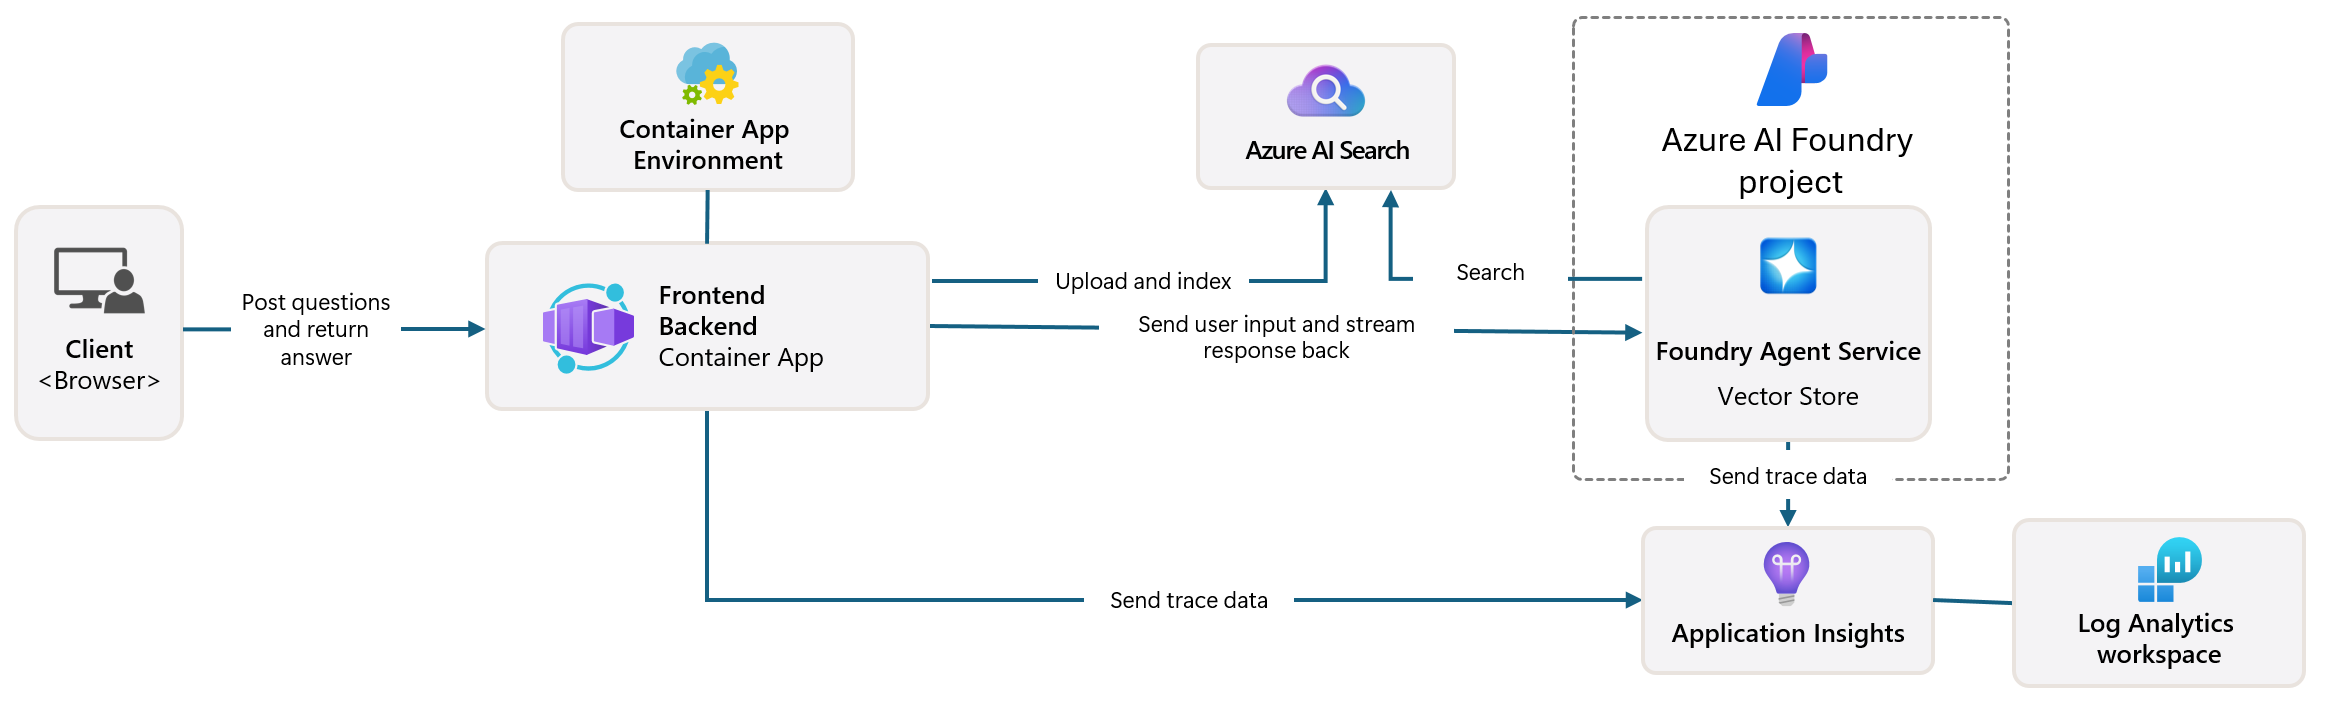
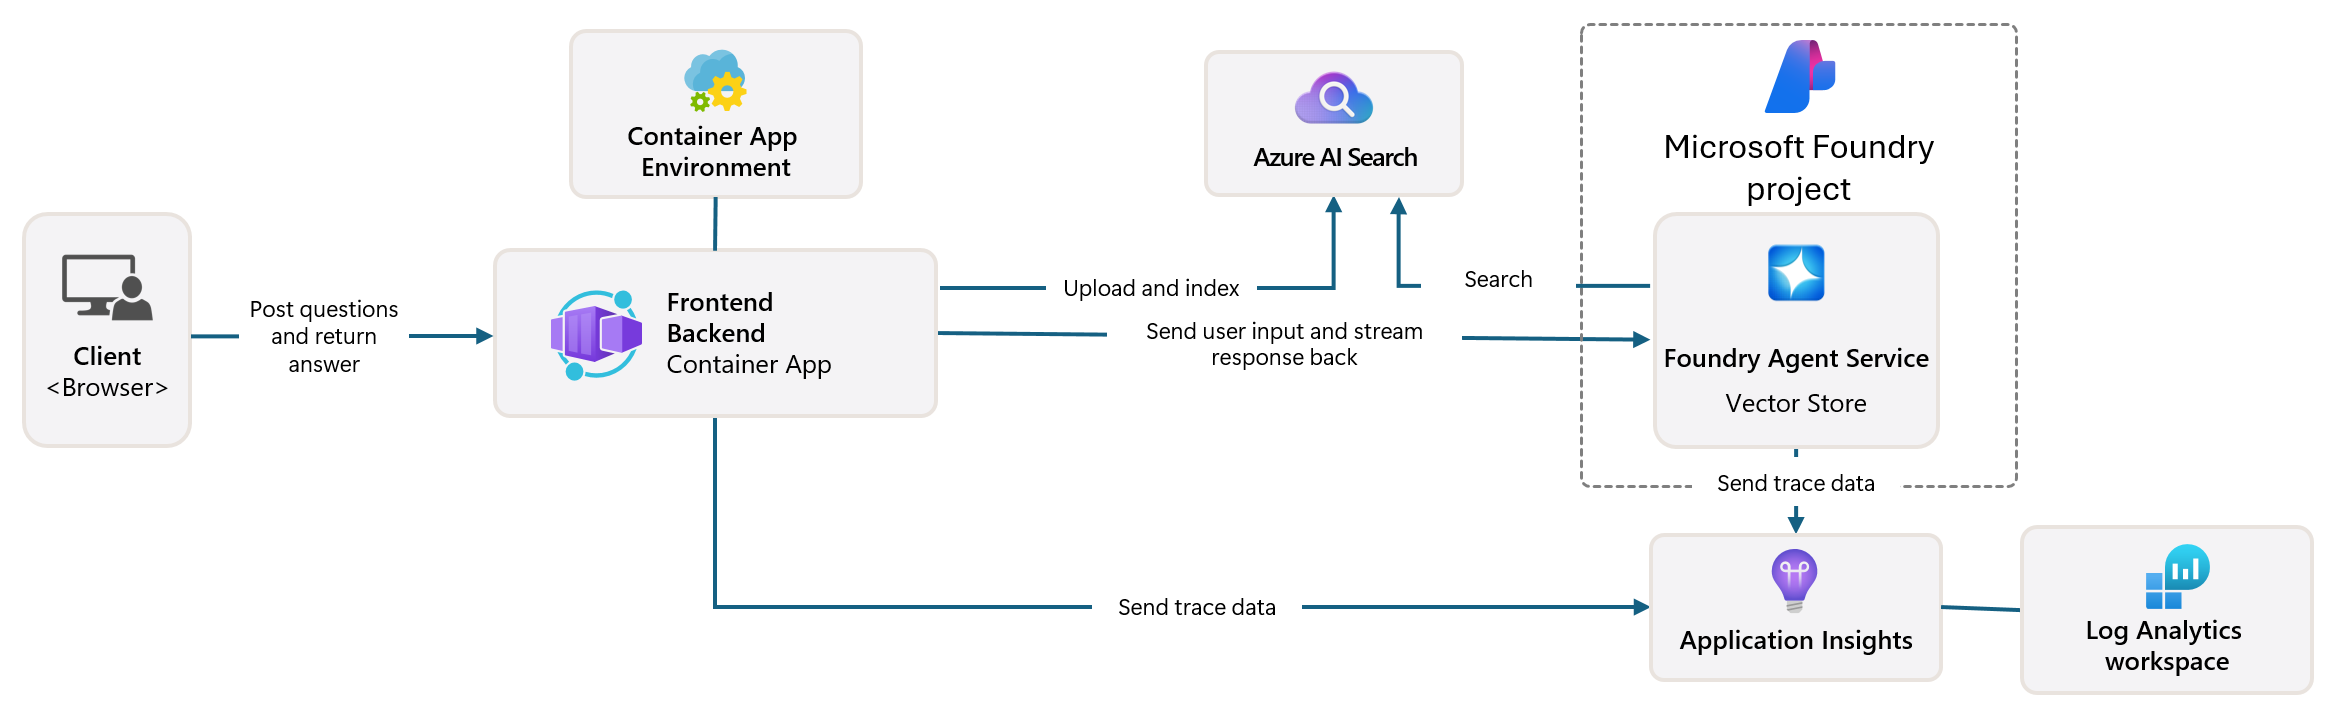
Rename to Microsoft FOundry

diff --git a/src/frontend/src/components/agents/BuiltWithBadge.tsx b/src/frontend/src/components/agents/BuiltWithBadge.tsx
@@ -59,14 +59,14 @@ export function BuiltWithBadge({
     >
       {" "}
       <span className={styles.logo}>
-        {/* Azure AI Foundry logo */}
+        {/* Microsoft Foundry logo */}
         <AIFoundryLogo />
       </span>
       <Caption1Strong className={styles.description}>
         Build & deploy AI agents with
       </Caption1Strong>
       <Caption1Strong className={styles.brand}>
-        Azure AI Foundry <ArrowRight16Filled aria-hidden={true} />
+        Microsoft Foundry <ArrowRight16Filled aria-hidden={true} />
       </Caption1Strong>
     </button>
   );

diff --git a/docs/observability.md b/docs/observability.md
@@ -8,9 +8,9 @@ In **post-deployment** stage, you can utilize [Tracing and monitoring](#tracing-
 
 ## Prequisites 
 
-Execute `azd up` to generate most of these environment variables in `.azure/.env`. To specify the Agent ID, navigate to the Azure AI Foundry Portal:
+Execute `azd up` to generate most of these environment variables in `.azure/.env`. To specify the Agent ID, navigate to the Microsoft Foundry Portal:
 
-  1. Go to [Azure AI Foundry Portal](https://ai.azure.com/) and sign in
+  1. Go to [Microsoft Foundry Portal](https://ai.azure.com/) and sign in
   2. Click on your project from the homepage
   3. In the top navigation, select **Build**
   4. In the left-hand menu, select **Agents**
@@ -21,7 +21,7 @@ Execute `azd up` to generate most of these environment variables in `.azure/.env
 
 ## Agent Evaluation
 
-Azure AI Foundry offers a number of [built-in evaluators](https://learn.microsoft.com/azure/ai-foundry/concepts/observability#what-are-evaluators) to measure the quality, efficiency, risk and safety of your agents. For example, intent resolution, tool call accuracy, and task adherence evaluators are targeted to assess the end-to-end and tool call process quality of agent workflow, while content safety evaluator checks for inappropriate content in the responses such as violence or hate. 
+Microsoft Foundry offers a number of [built-in evaluators](https://learn.microsoft.com/azure/ai-foundry/concepts/observability#what-are-evaluators) to measure the quality, efficiency, risk and safety of your agents. For example, intent resolution, tool call accuracy, and task adherence evaluators are targeted to assess the end-to-end and tool call process quality of agent workflow, while content safety evaluator checks for inappropriate content in the responses such as violence or hate. 
 You can also create custom evaluators tailored to your specific requirements, including custom prompt-based evaluators or code-based evaluators that implement your unique assessment criteria.
 
 In this template, we show how the evaluation of your agent can be intergrated into the test suite of your AI application.
@@ -49,7 +49,7 @@ You can use the [evaluation test script](../tests/test_evaluation.py) to validat
   pytest tests/test_evaluation.py -s
   ```
 
-  Upon completion, the test will display an URL in the output where you can review the detailed evaluation results in the Azure AI Foundry UI, including individual evaluator passing scores and explanations.
+  Upon completion, the test will display an URL in the output where you can review the detailed evaluation results in the Microsoft Foundry UI, including individual evaluator passing scores and explanations.
 
 ## AI Red Teaming Agent
 
@@ -71,7 +71,7 @@ python -m pip install -r src/requirements.txt
 pytest tests/test_red_teaming.py -s
 ```
 
-Upon completion, the test will display an URL in the output where you can review the detailed red teaming evaluation results in the Azure AI Foundry UI, including attack inputs, outcomes, and reasons.
+Upon completion, the test will display an URL in the output where you can review the detailed red teaming evaluation results in the Microsoft Foundry UI, including attack inputs, outcomes, and reasons.
 
 Read more on supported attack techniques and risk categories in our [documentation](https://learn.microsoft.com/azure/ai-foundry/how-to/develop/run-scans-ai-red-teaming-agent).
 
@@ -98,7 +98,7 @@ After accessing your resource group in Azure portal, choose your container app f
 
 ### Agent traces
 
-You can view both the server-side and client-side traces, cost and evaluation data in Azure AI Foundry. Go to the agent under your project on the Azure AI Foundry page and then click 'Tracing'.
+You can view both the server-side and client-side traces, cost and evaluation data in Microsoft Foundry. Go to the agent under your project on the Microsoft Foundry page and then click 'Tracing'.
 
 ![Tracing Tab](./images/tracing_tab.png)
 
@@ -114,9 +114,9 @@ Continuous evaluation is an automated monitoring capability that continuously as
 
 During container startup, continuous evaluation is `enabled` by default and pre-configured with a sample evaluator set to evaluate up to `5` agent responses per hour. Continuous evaluation does not generate test inputs—instead, it evaluates real user conversations as they occur. This means evaluation runs are triggered only when actual users interact with your agent, and if there are no user interactions, there will be no evaluation entries.
 
-To customize continuous evaluation from the Azure AI Foundry:
+To customize continuous evaluation from the Microsoft Foundry:
 
-1. Go to [Azure AI Foundry Portal](https://ai.azure.com/) and sign in
+1. Go to [Microsoft Foundry Portal](https://ai.azure.com/) and sign in
 2. Click on your project from the homepage
 3. In the top navigation, select **Build**
 4. In the left-hand menu, select **Agents**

diff --git a/docs/deployment.md b/docs/deployment.md
@@ -14,7 +14,7 @@ You can view the permissions for your account and subscription by going to Azure
 
 Check the [Azure Products by Region](https://azure.microsoft.com/explore/global-infrastructure/products-by-region/?products=all&regions=all) page and select a **region** where the following services are available:
 
-- [Azure AI Foundry](https://learn.microsoft.com/azure/ai-foundry/)
+- [Microsoft Foundry](https://learn.microsoft.com/azure/ai-foundry/)
 - [Azure Container Apps](https://learn.microsoft.com/azure/container-apps/)
 - [Azure Container Registry](https://learn.microsoft.com/azure/container-registry/)
 - [Azure AI Search](https://learn.microsoft.com/azure/search/)
@@ -184,7 +184,7 @@ When you start a deployment, most parameters will have default values. You can c
 
 | **Setting** | **Description** |  **Default value** |
 |------------|----------------|  ------------|
-| **Existing Project Resource ID** | Specify an existing project resource ID to be used instead of provisioning new Azure AI Foundry project and Foundry Tools. |   |
+| **Existing Project Resource ID** | Specify an existing project resource ID to be used instead of provisioning new Microsoft Foundry project and Foundry Tools. |   |
 | **Azure Region** | Select a region with quota which supports your selected model. |   |
 | **Model** | Choose from the [list of models supported by Foundry Agent Service](https://learn.microsoft.com/azure/ai-services/agents/concepts/model-region-support) for your selected region. | gpt-5-mini |  
 | **Model Format** | Choose from OpenAI or Microsoft, depending on your model. | OpenAI |  
@@ -228,7 +228,7 @@ To enable message contents to be included in the traces, set the following envir
 azd env set OTEL_INSTRUMENTATION_GENAI_CAPTURE_MESSAGE_CONTENT true
 ```
 
-You can view the App Insights tracing in Azure AI Foundry. Select your project on the Azure AI Foundry page and then click 'Tracing'.
+You can view the App Insights tracing in Microsoft Foundry. Select your project on the Microsoft Foundry page and then click 'Tracing'.
 
 </details>
 
@@ -258,7 +258,7 @@ Once you've opened the project in [Codespaces](#github-codespaces) or in [Dev Co
     azd env set AZURE_AI_AGENT_DEPLOYMENT_CAPACITY 100
     ```
 
-    ⚠ If you do not increase your quota, you may encounter rate limit issues. If needed, you can increase the quota after deployment by editing your model in the Models and Endpoints tab of the [Azure AI Foundry Portal](https://ai.azure.com/).
+    ⚠ If you do not increase your quota, you may encounter rate limit issues. If needed, you can increase the quota after deployment by editing your model in the Models and Endpoints tab of the [Microsoft Foundry Portal](https://ai.azure.com/).
 
 2. Provision resources, build a docker image using `src` folder, and deploy:
 
@@ -284,9 +284,9 @@ Once you've opened the project in [Codespaces](#github-codespaces) or in [Dev Co
         azd show
         ```
 
-5. (Optional) Now that your app has deployed, you can view your resources in the Azure Portal and your deployments in Azure AI Foundry.
+5. (Optional) Now that your app has deployed, you can view your resources in the Azure Portal and your deployments in Microsoft Foundry.
     - In the [Azure Portal](https://portal.azure.com/), navigate to your environment's resource group. The name will be `rg-[your environment name]`. Here, you should see your container app, storage account, and all of the other [resources](#resources) that are created in the deployment.
-    - In the [Azure AI Foundry Portal](https://ai.azure.com/), select your project. If you navigate to the Agents tab, you should be able to view your new agent, named `agent-template-assistant`. If you navigate to the Models and Endpoints tab, you should see your AI Services connection with your model deployments.
+    - In the [Microsoft Foundry Portal](https://ai.azure.com/), select your project. If you navigate to the Agents tab, you should be able to view your new agent, named `agent-template-assistant`. If you navigate to the Models and Endpoints tab, you should see your AI Services connection with your model deployments.
 
 6. (Optional) You can use a local development server to test app changes locally. To do so, follow the steps in [local deployment server](#develop-with-local-development-server) after your app is deployed.
 

diff --git a/docs/deploy_customization.md b/docs/deploy_customization.md
@@ -1,7 +1,7 @@
 
-# Getting Started with Agents Using Azure AI Foundry: Deployment customization
+# Getting Started with Agents Using Microsoft Foundry: Deployment customization
 
-This document describes how to customize the deployment of the Agents Chat with Azure AI Foundry. Once you follow the steps here, you can run `azd up` as described in the section below.
+This document describes how to customize the deployment of the Agents Chat with Microsoft Foundry. Once you follow the steps here, you can run `azd up` as described in the section below.
 
 * [Use existing resources](#use-existing-resources)
 * [Enabling and disabling resources provision](#enabling-and-disabling-resources-provision)
@@ -9,7 +9,7 @@ This document describes how to customize the deployment of the Agents Chat with 
 * [Customizing model deployments](#customizing-model-deployments)
 
 ## Use existing resources
-Be default, this template provisions a new resource group along with other resources.   If you already have provisioned Azure AI Foundry and Azure AI Foundry Project (not a hub based project), you might reuse these resources by setting:
+Be default, this template provisions a new resource group along with other resources.   If you already have provisioned Microsoft Foundry and Microsoft Foundry Project (not a hub based project), you might reuse these resources by setting:
 
 To find the value:
 
@@ -40,8 +40,8 @@ Once you disable these resources, they will not be deployed when you run `azd up
 By default, this template will use a naming convention with unique strings to prevent naming collisions within Azure.
 To override default naming conventions, the following keys can be set:
 
-* `AZURE_AIPROJECT_NAME` - The name of the Azure AI Foundry project
-* `AZURE_AISERVICES_NAME` - The name of the Azure AI Foundry
+* `AZURE_AIPROJECT_NAME` - The name of the Microsoft Foundry project
+* `AZURE_AISERVICES_NAME` - The name of the Microsoft Foundry
 * `AZURE_STORAGE_ACCOUNT_NAME` - The name of the Storage Account
 * `AZURE_APPLICATION_INSIGHTS_NAME` - The name of the Application Insights instance
 * `AZURE_LOG_ANALYTICS_WORKSPACE_NAME` - The name of the Log Analytics workspace used by Application Insights

diff --git a/docs/local_development.md b/docs/local_development.md
@@ -148,9 +148,9 @@ To customize agent instructions or tools when creating **new agents**, modify th
 
 ### Modifying Existing Agents
 
-**Important**: If you want to modify an **existing agent** that's already deployed, it's recommended to use the **Azure AI Foundry UI** instead of the script:
+**Important**: If you want to modify an **existing agent** that's already deployed, it's recommended to use the **Microsoft Foundry UI** instead of the script:
 
-1. Go to your Azure AI Foundry project
+1. Go to your Microsoft Foundry project
 2. Navigate to the Agents section
 3. Select your agent
 4. Update instructions, tools, or settings directly in the UI
@@ -178,7 +178,7 @@ If you want to add new files to the `src/files/` folder or update the embedded d
 If you've already created an agent and need to add or update files or embeddings data, you have two options:
 
 #### Option 1: Delete and Recreate Agent (Recommended)
-1. Go to your **Azure AI Foundry UI**
+1. Go to your **Microsoft Foundry UI**
 2. Navigate to the **Agents** section
 3. **Delete the existing agent**
 4. Update files in `src/files/` directory and/or `src/data/embeddings.csv`

diff --git a/docs/troubleshooting.md b/docs/troubleshooting.md
@@ -50,7 +50,7 @@ This guide provides solutions to common issues you may encounter when deploying 
 **Cause**: Your model may have reached its rate limit
 **Solution**: 
 - Increase quota by adjusting the bicep configuration
-- Edit the model in the Azure AI Foundry page for your project's model deployments
+- Edit the model in the Microsoft Foundry page for your project's model deployments
 
 ### Agent Crashes
 
@@ -82,7 +82,7 @@ This guide provides solutions to common issues you may encounter when deploying 
 
 If you continue to experience issues after trying these solutions:
 
-1. Check the [Azure AI Foundry documentation](https://learn.microsoft.com/azure/ai-foundry/)
+1. Check the [Microsoft Foundry documentation](https://learn.microsoft.com/azure/ai-foundry/)
 2. Review the [Azure Container Apps troubleshooting guide](https://learn.microsoft.com/azure/container-apps/troubleshooting)
 3. Consult the [Azure Developer CLI reference](https://learn.microsoft.com/azure/developer/azure-developer-cli/reference)
 4. For agent-specific issues, refer to the [Azure AI Agents documentation](https://learn.microsoft.com/azure/ai-services/agents/)

diff --git a/README.md b/README.md
@@ -1,4 +1,4 @@
-# Getting Started with Agents Using Azure AI Foundry
+# Getting Started with Agents Using Microsoft Foundry
 
 The agent leverages Foundry Agent Service and utilizes file search for knowledge retrieval from uploaded files, enabling it to generate responses with citations. The solution also includes built-in monitoring capabilities with tracing to ensure easier troubleshooting and optimized performance.
 
@@ -144,7 +144,7 @@ For a more comprehensive list of best practices and security recommendations for
 
 ### Resources
 
-This template creates everything you need to get started with Azure AI Foundry:
+This template creates everything you need to get started with Microsoft Foundry:
 
 | Resource | Description |
 |----------|-------------|
